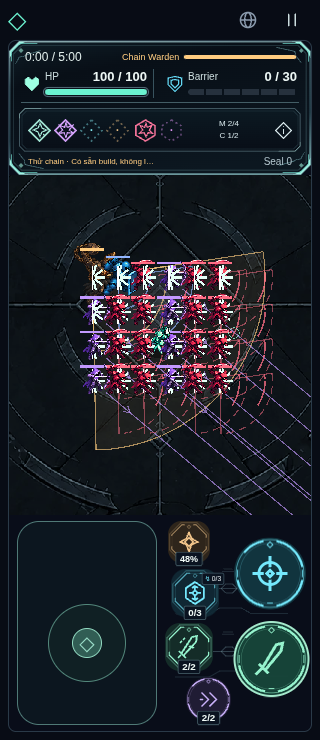
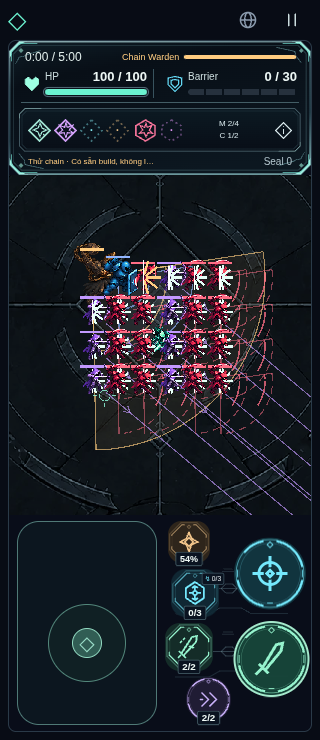
Q12B: giữ hitstop baseline theo user, hoàn tất input và review

diff --git a/src/game/EnemySprites.ts b/src/game/EnemySprites.ts
@@ -1,3 +1,4 @@
+import { FEEDBACK } from './config/feedback';
 import type Phaser from 'phaser';
 import type { CombatWorld, Enemy } from './combat';
 import { BOSS_ATTACK, BOSS_PHASE, GRUNT_LEAP } from './config/balance';
@@ -94,7 +95,7 @@ export class EnemySprites {
         .setPosition(enemy.x + Math.cos(enemy.angle) * lean, enemy.y - height + bob + Math.sin(enemy.angle) * lean - transformPulse * 6)
         .setScale(1 + transformPulse * 0.14, pose === 'windup' ? 1 - progress * 0.035 : 1 + transformPulse * 0.08)
         .setDepth(1.2 + enemy.y / 100000).setVisible(true).setAlpha(1);
-      if (baseline && enemy.flash > 0) body.image.setTintFill(0xffffff); else if (flash > 0 && enemy.windup <= 0 && enemy.active <= 0 && enemy.transform <= 0) body.image.setTint(0xe5fff7); else if (enemy.enraged) body.image.setTint(0xffbb99); else body.image.clearTint();
+      if (baseline && enemy.flash > 0) body.image.setTintFill(0xffffff); else if (flash > 0 && enemy.windup <= 0 && enemy.active <= 0 && enemy.transform <= 0) body.image.setTint(FEEDBACK.flashTint); else if (enemy.enraged) body.image.setTint(0xffbb99); else body.image.clearTint();
     }
   }
 }

diff --git a/src/game/ArenaScene.ts b/src/game/ArenaScene.ts
@@ -353,7 +353,7 @@ export class ArenaScene extends Phaser.Scene {
     }
     const perfectAge = this.feedbackBaseline ? 0.65 - world.perfectFlash : this.perfectAge;
     if (world.perfectFlash > 0 && (this.feedbackBaseline || perfectAge < FEEDBACK.perfectDuration)) {
-      const radius = this.feedbackBaseline ? 28 + perfectAge * 45 : FEEDBACK.perfectRadius + perfectAge * 45;
+      const radius = this.feedbackBaseline ? 28 + perfectAge * 45 : FEEDBACK.perfectRadius + perfectAge * FEEDBACK.perfectExpansion;
       g.lineStyle(2, FEEDBACK.perfectColor, this.feedbackBaseline ? world.perfectFlash / 0.65 : 1 - perfectAge / FEEDBACK.perfectDuration);
       for (let i = 0; i < 4; i++) {
         const a = i * Math.PI / 2;

diff --git a/src/game/config/feedback.ts b/src/game/config/feedback.ts
@@ -3,10 +3,9 @@ export const FEEDBACK = {
   light: { flash: 0.045, pixels: 0 },
   medium: { flash: 0.070, pixels: 1.5 },
   heavy: { flash: 0.090, pixels: 3 },
+  flashTint: 0xe5fff7,
   decay: 0.100, mobileScale: 0.3, cycles: 2,
-  perfectDuration: 0.100, perfectRadius: 26, perfectColor: 0x9dffe2,
-  // Contract target; simulation hitstop migration awaits resolution (see docs/q12b).
-  hitstopCap: 0.035,
+  perfectDuration: 0.100, perfectRadius: 26, perfectExpansion: 45, perfectColor: 0x9dffe2,
 } as const;
 export type ImpactTier = 'light' | 'medium' | 'heavy';
 export function impactTier(cue: string): ImpactTier {

diff --git a/docs/q12b/README.md b/docs/q12b/README.md
@@ -1,6 +1,6 @@
 # Q12B — Hit Feel & Combat Feedback
 
-**IN PROGRESS — chờ giải quyết xung đột hitstop với gameplay parity.** User giao2026-10-29 hướng Punchy & Controlled. Baseline accepted Q12A `893d744`, runtime `c30248a` = `591fa0e`. Không DDR hoặc Q12C–E; Arrival gốc Q8C và toàn bộ audio giữ nguyên bytes.
+**AWAITING USER PLAYTEST APPROVAL Q12B.** User giao2026-10-29 hướng Punchy & Controlled. Baseline accepted Q12A `893d744`, runtime `c30248a` = `591fa0e`. Không DDR hoặc Q12C–E; Arrival gốc Q8C và toàn bộ audio giữ nguyên bytes.
 
 ## Audit và implementation
 
@@ -11,28 +11,25 @@
 - Confirmed actualDamage>0 mới ghi metadata feedback/flash/contact impact; corpse/zero damage/miss/cancel/rejected không cấp feedback mới. Pool impact24 hiện hữu giữ nguyên, priority không dựa vào pool có thể evict. VFX explosion phát lúc nổ theo baseline; camera/flash chỉ sau damage thật.
 - Perfect accent dùng local4corner cũ, rút xuống100ms presentation clock; HUD notice cũ giữ. Không thêm hitstop. Flash dùng presentation clock, không kéo dài theo legacy simulation hitstop. Pause/Draft/result/resize xóa camera tail; resume không replay; reset clears metadata.
 
-## Xung đột cần user chốt
+## Ngoại lệ hitstop đã được user chốt
 
-Contract mới yêu cầu Heavy hitstop≤35ms, Light không hitstop và presentation-only, đồng thời không đổi cooldown/movement/AI/Boss timing và world state với cùng input/seed. Baseline thực tế freeze toàn simulation khi hitstop>0 (combat.ts captureInput/step, RunDirector.step), Heavy85ms/L3 65ms. Không thể hạ/xóa freeze này và vẫn giữ world-state parity theo wallclock/input giống hệt. Chưa sửa legacy hitstop; `FEEDBACK.hitstopCap` là target contract, **chưa có hiệu lực**. Không báo cap35ms PASS hoặc Q12B hoàn tất.
+User ngày2026-10-29 chọn nguyên văn: **“Giữ simulation baseline; cap phần presentation mới, ghi ngoại lệ”** (hội thoại task hiện tại, không permalink). Đây là quyết định scope implementation; không ghi DDR/Approved hoặc tự nghiệm thu Q12B.
 
-Đã hỏi user hai lựa chọn:
+Giữ toàn bộ hitstop simulation kế thừa: Heavy85ms, L3 65ms, L2 45ms, Light33ms, Charged40ms, Basic12ms, Blast25–50ms, Hurt40ms (lượng đặt timer; simulation60Hz có lượng tử bước). Max/coalesce theo baseline, không cộng timer. Ngoại lệ này giữ nguyên input buffer/movement/cooldown/i-frame/AI/Boss/run/warning timing và world-state parity cùng input/seed. Không tuyên bố legacy hitstop đạt≤35ms.
 
-1. Giữ simulation baseline, cap presentation mới và ghi ngoại lệ hitstop kế thừa.
-2. Cho phép thay simulation hitstop, kiểm parity theo active simulation ticks và ghi khác biệt wallclock.
-
-Chờ câu trả lời trước thay phần phụ thuộc. Chưa deploy review Q12B, chưa chuyển AWAITING USER PLAYTEST APPROVAL.
+**Q12B thêm0ms hitstop** ở presentation và simulation (≤35ms), Perfect cũng0ms mới. Không thêm clock freeze hoặc gia hạn warning; camera/flash/Perfect accent decay bằng presentation clock dù simulation đang hitstop. Xóa config cap chưa có consumer để không giả vờ đã hạ legacy freeze.
 
 ## Kiểm chứng hiện có
 
 - `npm run build`/typecheck PASS; `npm test`29testfiles PASS (3case Q12B mới): tier/flash, zero/dead/miss/cancel/rejected, Perfect không stop mới, crowd priority/pool/cap/envelope/reset.
 - [Parity](evidence/parity.json):15case Seal0–4 × none/Blood Moon/Fractured Storm, input/seed808, tối đa10800ticks hoặc defeat; full serialized combat world mỗi300tick, gồm cả audio. Chỉ loại metadata mới feedback/feedbackFlash; mọi state còn lại giống baseline. Không chứng minh combat feel hoặc natural fullrun.
-- [Browser](evidence/browser.json): Chromium software WebGL320×740,390×844,844×390 touch và1440×1000 desktop; scene24enemies/Boss windup, render pure, camera pixel cap (Float32 tolerance0.0001px), logical scroll/aim restore, pause/resume/decay, storage isolation; baseline/Q12B screenshots cùng state. Không phải screenshot live Pages hoặc deviceFPS.
-- [Input](evidence/input.json):390CDPtouch/1440keyboard giữ Charged, cancel qua pause, fresh press/release đúng mộtresource, miss không hit. Chưa user cảm nhận, real-device/iOS/Safari/latency/thermal/FPS; movement/manual drag aim và resize impulse đầy đủ còn cần kiểm bổ sung.
-- Tái lập baseline: compile `src/game/combat.ts`/`run.ts` của893d744 vào `/tmp/q12b-baseline` (ES2022/ESM), package.json type module; `npm test && node docs/q12b/parity-check.mjs`. Browser dùng `npm run dev` rồi `node docs/q12b/browser-check.mjs` và `node docs/q12b/input-check.mjs`; Playwright tại toolchain `/opt/codex/cua_node`.
+- [Browser](evidence/browser.json): Chromium software WebGL320×740,390×844,844×390 touch và1440×1000 desktop; scene24enemies/Boss+Elite windup/active và Boss transform; flash45/70/90ms hết dù simulation freeze; render pure, camera pixel cap (Float32 tolerance0.0001px), logical scroll/aim restore, pause/resume/decay, storage isolation; baseline/Q12B screenshots cùng state. Không phải screenshot live Pages hoặc deviceFPS.
+- [Input](evidence/input.json):390CDPtouch/1440keyboard giữ Charged, cancel qua pause, fresh press/release đúng mộtresource, miss không hit. Chưa user cảm nhận, real-device/iOS/Safari/latency/thermal/FPS; [Movement/aim/resize](evidence/movement.json): A/B390touch multi-input joystick+manual Basic drag và1440WASD+mouse Basic, position/angle/projectile count giống nhau khi impulse; rotate390→844 và desktop1440→1100 xóa tail/input, world mapping ổn định. Không suy responsiveness/feel từ kiểm kỹ thuật này.
+- Tái lập baseline: compile `src/game/combat.ts`/`run.ts` của893d744 vào `/tmp/q12b-baseline` (ES2022/ESM), package.json type module; `npm test && node docs/q12b/parity-check.mjs`. Browser dùng `npm run dev` rồi `node docs/q12b/browser-check.mjs` , `node docs/q12b/input-check.mjs` và `node docs/q12b/movement-check.mjs`; Playwright tại toolchain `/opt/codex/cua_node`.
 
-## A/B và checklist review (sau khi deploy)
+## A/B và checklist review
 
-Các URL dùng fixture memory riêng; `feedback=baseline` chỉ được đọc khi có `playtest`. Không ghi progression thật; thêm `draftSeed=808` để cố định RNG, thao tác tay vẫn có thể khác.
+Deploy qua Pages workflow sau build/checks PASS; version/workflow cuối ghi tại HANDOFF. Các URL dùng fixture memory riêng; `feedback=baseline` chỉ được đọc khi có `playtest`. Không ghi progression thật; thêm `draftSeed=808` để cố định RNG, thao tác tay vẫn có thể khác.
 
 - Baseline: `?playtest=chain&draftSeed=808&feedback=baseline`; Q12B: `?playtest=chain&draftSeed=808`. Baseline giữ120ms/tintFill/Perfect cũ và không impulse, cùng audio/simulation.
 - Light1–2/Basic: đánh trúng thấy accent ngắn, camera đứng; đánh hụt/cancel/không đủresource không impact giả.
